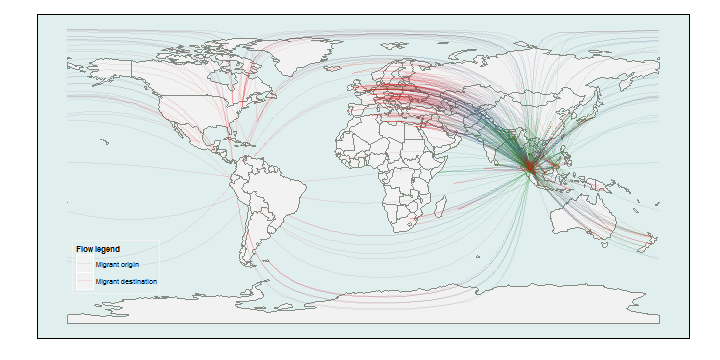
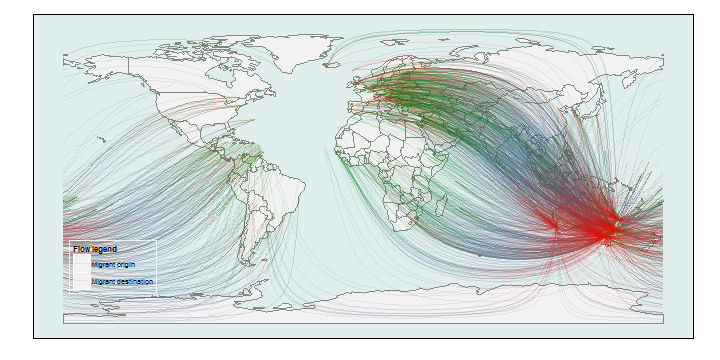
changed example in slides

diff --git a/index.html b/index.html
@@ -57,22 +57,22 @@ readMigrationTable &lt;- function() {
 
 <article class="class" id="id" style="background:#F0F0F0;">
   <h3>3 | Data processing</h3>
-  <p>With some processing, a data-frame with all computed connections is created. Following is an example for Malaysia:</p>
+  <p>With some processing, a data-frame with all computed connections is created. Following is an example for Australia:</p>
 
 <pre><code>##   source destination stock lat.d lon.d lat.s lon.s stocklog id
-## 1     AF          MY   492   4.8   103    33    65        6  1
-## 2     AF          MY   492   4.8   103    33    65        6  1
-## 3     AF          MY   492   4.8   103    33    65        6  1
-## 4     AF          MY   492   4.8   103    33    65        6  1
-## 5     AF          MY   492   4.8   103    33    65        6  1
+## 1     AD          AU    22   -27   133  42.5   1.5        3  1
+## 2     AD          AU    22   -27   133  42.5   1.5        3  1
+## 3     AD          AU    22   -27   133  42.5   1.5        3  1
+## 4     AE          AU  5890   -27   133  24.0  54.0        9  2
+## 5     AE          AU  5890   -27   133  24.0  54.0        9  2
 </code></pre>
 
-<pre><code>##     source destination stock lat.d lon.d lat.s lon.s stocklog  id
-## 626     VN          MY 85709   4.8   103    16   106       11 100
-## 627     VN          MY 85709   4.8   103    16   106       11 100
-## 628     VN          MY 85709   4.8   103    16   106       11 100
-## 629     VN          MY 85709   4.8   103    16   106       11 100
-## 630     VN          MY 85709   4.8   103    16   106       11 100
+<pre><code>##      source destination stock lat.d lon.d lat.s lon.s stocklog  id
+## 2359     ZW          AU 34034   -27   133   -20    30       10 349
+## 2360     ZW          AU 34034   -27   133   -20    30       10 349
+## 2361     ZW          AU 34034   -27   133   -20    30       10 349
+## 2362     ZW          AU 34034   -27   133   -20    30       10 349
+## 2363     ZW          AU 34034   -27   133   -20    30       10 349
 </code></pre>
 
 <p>In the next step, the repeating coordinates are replaced with locations of cities in the region.</p>
@@ -97,7 +97,7 @@ readMigrationTable &lt;- function() {
 
 <p><img src="assets/fig/final-plot.png" title="plot of chunk final-plot" alt="plot of chunk final-plot" style="display: block; margin: auto;" /></p>
 
-<p><center><small>An example plot for Malaysia with &#39;light&#39; map theme</small></center></p>
+<p><center><small>An example plot for Australia with &#39;light&#39; map theme</small></center></p>
 
 <p>Try it yourself at <a href="https://asheshwor.shinyapps.io/migrationviz/">https://asheshwor.shinyapps.io/migrationviz/</a></p>
 

diff --git a/index.md b/index.md
@@ -59,25 +59,25 @@ Reading world map shape file and cities database:
 
 ## 3 | Data processing
 
-With some processing, a data-frame with all computed connections is created. Following is an example for Malaysia:
+With some processing, a data-frame with all computed connections is created. Following is an example for Australia:
 
 
 ```
 ##   source destination stock lat.d lon.d lat.s lon.s stocklog id
-## 1     AF          MY   492   4.8   103    33    65        6  1
-## 2     AF          MY   492   4.8   103    33    65        6  1
-## 3     AF          MY   492   4.8   103    33    65        6  1
-## 4     AF          MY   492   4.8   103    33    65        6  1
-## 5     AF          MY   492   4.8   103    33    65        6  1
+## 1     AD          AU    22   -27   133  42.5   1.5        3  1
+## 2     AD          AU    22   -27   133  42.5   1.5        3  1
+## 3     AD          AU    22   -27   133  42.5   1.5        3  1
+## 4     AE          AU  5890   -27   133  24.0  54.0        9  2
+## 5     AE          AU  5890   -27   133  24.0  54.0        9  2
 ```
 
 ```
-##     source destination stock lat.d lon.d lat.s lon.s stocklog  id
-## 626     VN          MY 85709   4.8   103    16   106       11 100
-## 627     VN          MY 85709   4.8   103    16   106       11 100
-## 628     VN          MY 85709   4.8   103    16   106       11 100
-## 629     VN          MY 85709   4.8   103    16   106       11 100
-## 630     VN          MY 85709   4.8   103    16   106       11 100
+##      source destination stock lat.d lon.d lat.s lon.s stocklog  id
+## 2359     ZW          AU 34034   -27   133   -20    30       10 349
+## 2360     ZW          AU 34034   -27   133   -20    30       10 349
+## 2361     ZW          AU 34034   -27   133   -20    30       10 349
+## 2362     ZW          AU 34034   -27   133   -20    30       10 349
+## 2363     ZW          AU 34034   -27   133   -20    30       10 349
 ```
 
 In the next step, the repeating coordinates are replaced with locations of cities in the region.
@@ -103,7 +103,7 @@ Finally the arc segments from obtained using ```gcIntermediate``` function are a
 
 <img src="assets/fig/final-plot.png" title="plot of chunk final-plot" alt="plot of chunk final-plot" style="display: block; margin: auto;" />
 
-<center><small>An example plot for Malaysia with 'light' map theme</small></center>
+<center><small>An example plot for Australia with 'light' map theme</small></center>
 
 Try it yourself at https://asheshwor.shinyapps.io/migrationviz/
 
